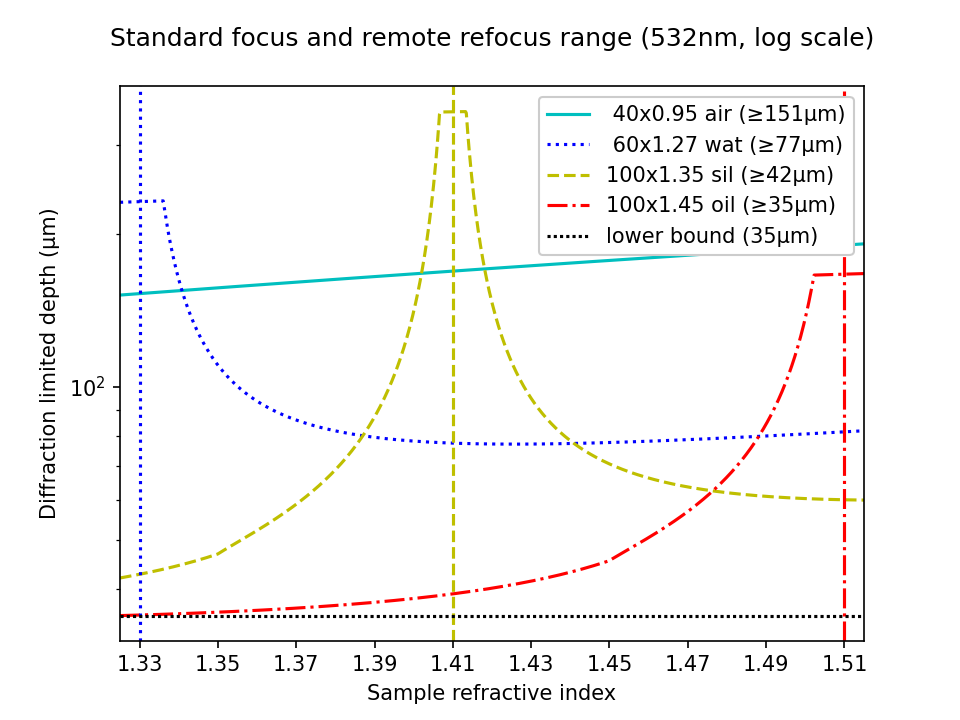
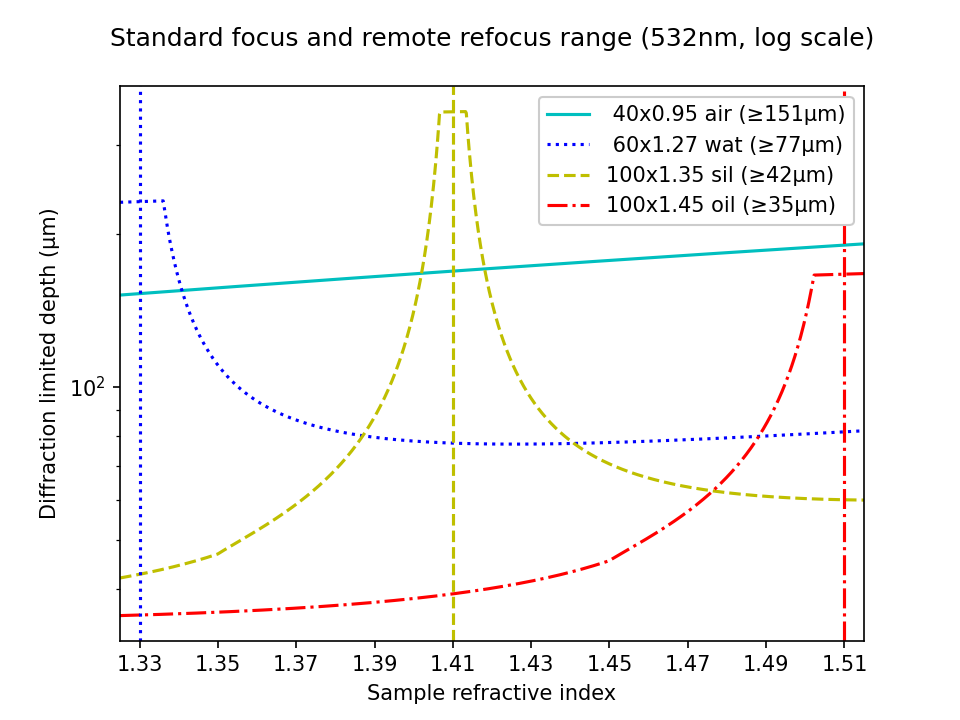
Add files via upload
'lower bound' line removed

Changed region(s): [[0.5625, 0.3056, 0.9062, 0.3667]]

diff --git a/figure_generation/sf_and_rr_range/sf_and_rr_range.py b/figure_generation/sf_and_rr_range/sf_and_rr_range.py
@@ -66,8 +66,8 @@ def plot(title, obj_name, obj_data, y_limits, filename, log=False, show=False):
     ax.axvline(x=1.33, color='b', linestyle=':')
     ax.axvline(x=1.41, color='y', linestyle='--')
     ax.axvline(x=1.51, color='r', linestyle='-.')
-    ax.axhline(y=min(obj_data[3]), color='k', linestyle=(0,(1,1)),
-               label='lower bound (%iµm)'%min(obj_data[3]))
+##    ax.axhline(y=min(obj_data[3]), color='k', linestyle=(0,(1,1)),
+##               label='lower bound (%iµm)'%min(obj_data[3]))
     # configure:
     ax.set_xlim(xmin=n_s[0], xmax=n_s[-1])
     ax.set_xticks(np.linspace(1.33, 1.51, 10))
